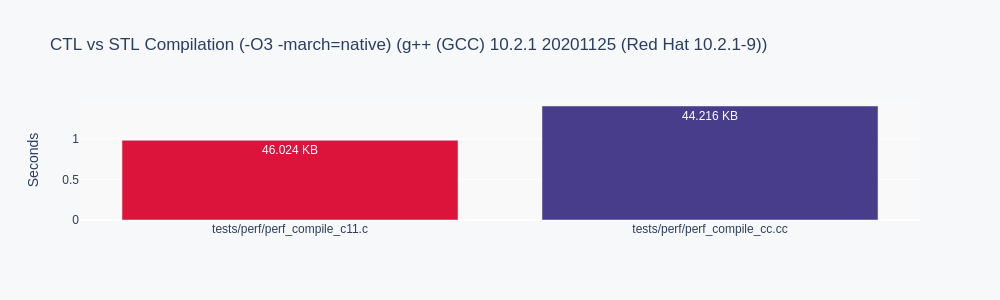
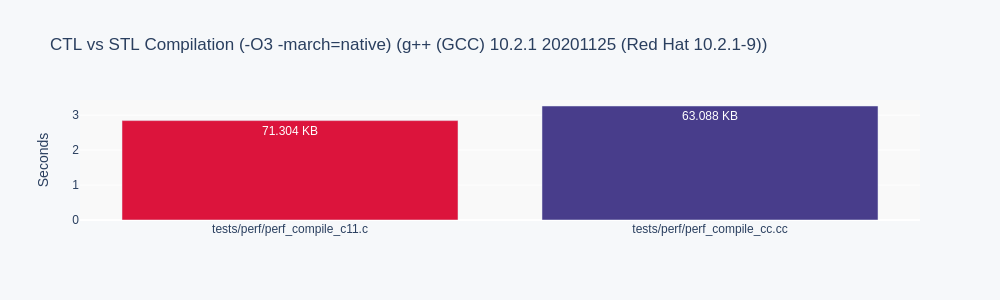
add algorithm to compile.png, allow mult. algorithm.h

Changed region(s): [[0.124, 0.39, 0.465, 0.51], [0.031, 0.45, 0.093, 0.63], [0.682, 0.36, 0.713, 0.42]]

diff --git a/tests/perf/perf_compile_c11.c b/tests/perf/perf_compile_c11.c
@@ -29,6 +29,15 @@
 #include <ctl/string.h>
 
 #define POD
+#define T int
+#define N 1024
+#include <ctl/array.h>
+
+#define POD
+#define T int
+#include <ctl/unordered_set.h>
+
+#define POD
 #define T short
 #include <ctl/deque.h>
 
@@ -130,6 +139,12 @@ compare_int(int* a, int* b)
     return *a < *b;
 }
 
+static size_t
+hash_int(int* a) { return *a; }
+
+static int
+equal_int(int* a, int* b) { return *a == *b; }
+
 static int
 compare_key_short(short* a, short* b)
 {
@@ -166,6 +181,8 @@ compare_double(double* a, double* b)
     return *a < *b;
 }
 
+#define N 1024
+
 void
 A(void)
 {
@@ -177,16 +194,23 @@ A(void)
     stack_int f = stack_int_init();
     str g = str_init("test");
     pqu_int i = pqu_int_init(compare_int);
+    arr1024_int j = arr1024_int_init();
+    uset_int k = uset_int_init(hash_int, equal_int);
 
-    deq_int_push_back(&a, 1);
-    deq_int_push_front(&a, 1);
-    vec_int_push_back(&b, 1);
-    list_int_push_back(&c, 1);
-    list_int_push_front(&c, 1);
-    queue_int_push(&d, 1);
-    set_int_insert(&e, 1);
-    stack_int_push(&f, 1);
-    pqu_int_push(&i, 1);
+    for (int el=0; el<N; el++)
+    {
+        deq_int_push_back(&a, el);
+        deq_int_push_front(&a, el);
+        vec_int_push_back(&b, el);
+        list_int_push_back(&c, el);
+        list_int_push_front(&c, el);
+        queue_int_push(&d, el);
+        set_int_insert(&e, el);
+        stack_int_push(&f, el);
+        pqu_int_push(&i, el);
+        arr1024_int_set(&j, el, el);
+        uset_int_insert(&k, el);
+    }
 
     deq_int_pop_back(&a);
     deq_int_pop_front(&a);
@@ -197,6 +221,21 @@ A(void)
     set_int_erase(&e, 1);
     stack_int_pop(&f);
     pqu_int_pop(&i);
+    arr1024_int_set(&j, 0, 0);
+    uset_int_erase(&k, 1);
+
+    deq_int_sort(&a);
+    deq_int_count(&a, 0);
+    vec_int_sort(&b);
+    vec_int_count(&b, 0);
+    list_int_sort(&c);
+    list_int_count(&c, 0);
+    set_int_count(&e, 0);
+    str_sort(&g);
+    str_count(&g, 'A');
+    arr1024_int_sort(&j);
+    arr1024_int_count(&j, 0);
+    uset_int_count(&k, 0);
 
     deq_int_free(&a);
     list_int_free(&c);
@@ -206,6 +245,8 @@ A(void)
     stack_int_free(&f);
     str_free(&g);
     pqu_int_free(&i);
+    arr1024_int_free(&j);
+    uset_int_free(&k);
 }
 
 void
@@ -256,9 +297,9 @@ C(void)
     deq_float a = deq_float_init();
     vec_float b = vec_float_init();
     list_float c = list_float_init();
-   queue_float d = queue_float_init();
+    queue_float d = queue_float_init();
     set_float e = set_float_init(compare_key_float);
-   stack_float f = stack_float_init();
+    stack_float f = stack_float_init();
     str g = str_init("test");
     pqu_float i = pqu_float_init(compare_float);
 

diff --git a/tests/perf/perf_compile_cc.cc b/tests/perf/perf_compile_cc.cc
@@ -5,6 +5,11 @@
 #include <stack>
 #include <vector>
 #include <string>
+#include <array>
+#include <unordered_set>
+#include <algorithm>
+
+#define N 1024
 
 void
 A()
@@ -17,16 +22,24 @@ A()
     std::stack<int> f;
     std::string g;
     std::priority_queue<int> i;
+    std::array<int,N> j;
+    std::unordered_set<int> k;
 
-    a.push_back(1);
-    a.push_front(1);
-    b.push_back(1);
-    c.push_back(1);
-    c.push_front(1);
-    d.push(1);
-    e.insert(1);
-    f.push(1);
-    i.push(1);
+    for (int el=0; el<N; el++)
+    {
+        a.push_back(el);
+        a.push_front(el);
+        b.push_back(el);
+        c.push_back(el);
+        c.push_front(el);
+        d.push(el);
+        e.insert(el);
+        f.push(el);
+        g.push_back('A' + el);
+        i.push(el);
+        j[el] = el;
+        k.insert(el);
+    }
 
     a.pop_back();
     a.pop_front();
@@ -36,7 +49,23 @@ A()
     d.pop();
     e.erase(1);
     f.pop();
+    g.pop_back();
     i.pop();
+    j[0] = 0;
+    k.erase(1);
+
+    sort(a.begin(), a.end());
+    std::count(a.begin(), a.end(), 0);
+    sort(b.begin(), b.end());
+    std::count(b.begin(), b.end(), 0);
+    c.sort();
+    std::count(c.begin(), c.end(), 0);
+    std::count(e.begin(), e.end(), 0);
+    std::sort(g.begin(), g.end());
+    std::count(g.begin(), g.end(), 'A');
+    std::sort(j.begin(), j.end());
+    std::count(j.begin(), j.end(), 0);
+    std::count(k.begin(), k.end(), 0);
 }
 
 void

diff --git a/ctl/algorithm.h b/ctl/algorithm.h
@@ -3,9 +3,8 @@
 // SPDX-License-Identifier: MIT
 //
 // Might only be included once. By the child. not the parent.
-#ifndef __CTL_ALGORITHM_H__
-#define __CTL_ALGORITHM_H__
-#define CTL_ALGORITHM
+//#ifndef __CTL_ALGORITHM_H__
+//#define __CTL_ALGORITHM_H__
 
 #if !defined CTL_LIST && \
     !defined CTL_SET && \
@@ -21,10 +20,8 @@
     !defined CTL_UMAP
 # error "No CTL container defined for <ctl/algorithm.h>"
 #endif
-
-#ifndef IT
-# error "Iterator type IT undefined for <ctl/algorithm.h>"
-#endif
+#undef CTL_ALGORITHM
+#define CTL_ALGORITHM
 
 // Generic algorithms with ranges
 
@@ -347,7 +344,7 @@ JOIN(A, count_range)(I* first, I* last, T value)
     return count;
 }
 #if !defined(CTL_SET) && !defined(CTL_STR)
-// has its own variant via faster find
+// str has its own variant via faster find. set/uset do not need it.
 static inline size_t
 JOIN(A, count)(A* self, T value)
 {
@@ -522,4 +519,4 @@ JOIN(A, upper_bound_range)(I* first, I* last, T value)
 // move_backward C++11
 // move_backward_range C++20
 
-#endif // only once
+//#endif // only once

diff --git a/ctl/bits/iterators.h b/ctl/bits/iterators.h
@@ -1,13 +1,13 @@
-/* Abstract IT (T* value, B* node or size_t index)
+/* Abstract iterators: T* value, B* node or size_t index
    foreach, foreach_range.
 
    We have two kinds of iterators:
    - returning B* nodes (list, set, uset)
    - returning T* valuerefs directly (vector, deque).
-     deq has it's own special variant incuding the index.
+     deque has it's own special variant incuding the index.
 
    An iterator should be simply incremented:
-     IT it; it++ for vectors, it = it->next for lists.
+     it++ for vectors, it = it->next for lists.
 
    Copyright 2021 Reini Urban
    See MIT LICENSE
@@ -21,8 +21,8 @@
     defined CTL_USET || defined CTL_UMAP
 
 # define CTL_B_ITER
-# undef IT
-# define IT B*
+//# undef IT
+//# define IT B*
 /* return B* it node. end is NULL */
 
 # define list_foreach(A, self, pos)                     \
@@ -51,8 +51,8 @@
 
 # define CTL_T_ITER
 
-# undef IT
-# define IT T*
+//# undef IT
+//# define IT T*
 /* array of T*. end() = size+1 */
 
 #ifndef CTL_DEQ

diff --git a/ctl/bits/container.h b/ctl/bits/container.h
@@ -101,19 +101,25 @@ JOIN(A, _equal)(A* self, T* a, T* b)
 // ignore str: u8str, u8id for now.
 #undef _IS_PARENT_CHILD_FOLLOWS
 #if defined CTL_VEC && (defined CTL_PQU || defined CTL_STR  || defined CTL_U8STR)
+//#pragma message "vec child"
 #define _IS_PARENT_CHILD_FOLLOWS
 #endif
 #if defined CTL_DEQ && (defined CTL_QUEUE || defined CTL_STACK)
+//#pragma message "deq child"
 #define _IS_PARENT_CHILD_FOLLOWS
 #endif
 #if defined CTL_SET && defined CTL_MAP
+//#pragma message "set child"
 #define _IS_PARENT_CHILD_FOLLOWS
 #endif
 #if defined CTL_USET && defined CTL_UMAP
+//#pragma message "uset child"
 #define _IS_PARENT_CHILD_FOLLOWS
 #endif
 
 #ifndef _IS_PARENT_CHILD_FOLLOWS
 # include <ctl/algorithm.h>
+//#else
+//# pragma message "_IS_PARENT_CHILD_FOLLOWS defined"
 #endif
 #undef _IS_PARENT_CHILD_FOLLOWS

diff --git a/tests/func/test_unordered_set.cc b/tests/func/test_unordered_set.cc
@@ -4,7 +4,6 @@
 #define USE_INTERNAL_VERIFY
 #define T digi
 #include <ctl/unordered_set.h>
-#include <ctl/algorithm.h>
 
 #include <inttypes.h>
 #include <unordered_set>

diff --git a/ctl/set.h b/ctl/set.h
@@ -992,7 +992,6 @@ JOIN(A, transform_it_range)(I* first1, I* last1, I* pos, I dest, T _binop(T*, T*
 #undef T
 #undef A
 #undef B
-#undef C
 #undef I
 #else
 #undef HOLD

diff --git a/ctl/deque.h b/ctl/deque.h
@@ -642,9 +642,7 @@ JOIN(A, swap)(A* self, A* other)
 #undef T
 #undef A
 #undef B
-#undef C
 #undef I
-#undef IT
 #undef POD
 #undef NOT_INTEGRAL
 #undef CTL_DEQ

diff --git a/ctl/map.h b/ctl/map.h
@@ -123,6 +123,5 @@ JOIN(A, insert_or_assign_found)(A* self, T key, int* foundp)
 #undef T
 #undef A
 #undef B
-#undef C
 #undef I
 #undef CTL_MAP

diff --git a/ctl/unordered_map.h b/ctl/unordered_map.h
@@ -116,5 +116,4 @@ JOIN(A, insert_or_assign_found)(A* self, T value, int *foundp)
 #undef T
 #undef A
 #undef B
-#undef C
 #undef I

diff --git a/ctl/string.h b/ctl/string.h
@@ -252,7 +252,6 @@ str_equal(str* self, str* other)
 #undef POD
 #undef vec_char
 #undef T
-#undef IT
 #else
 #undef HOLD
 #endif

diff --git a/ctl/priority_queue.h b/ctl/priority_queue.h
@@ -156,5 +156,4 @@ JOIN(A, emplace)(A* self, T* value)
 #undef POD
 #undef NOT_INTEGRAL
 #undef A
-#undef C
 #define CTL_PQU
